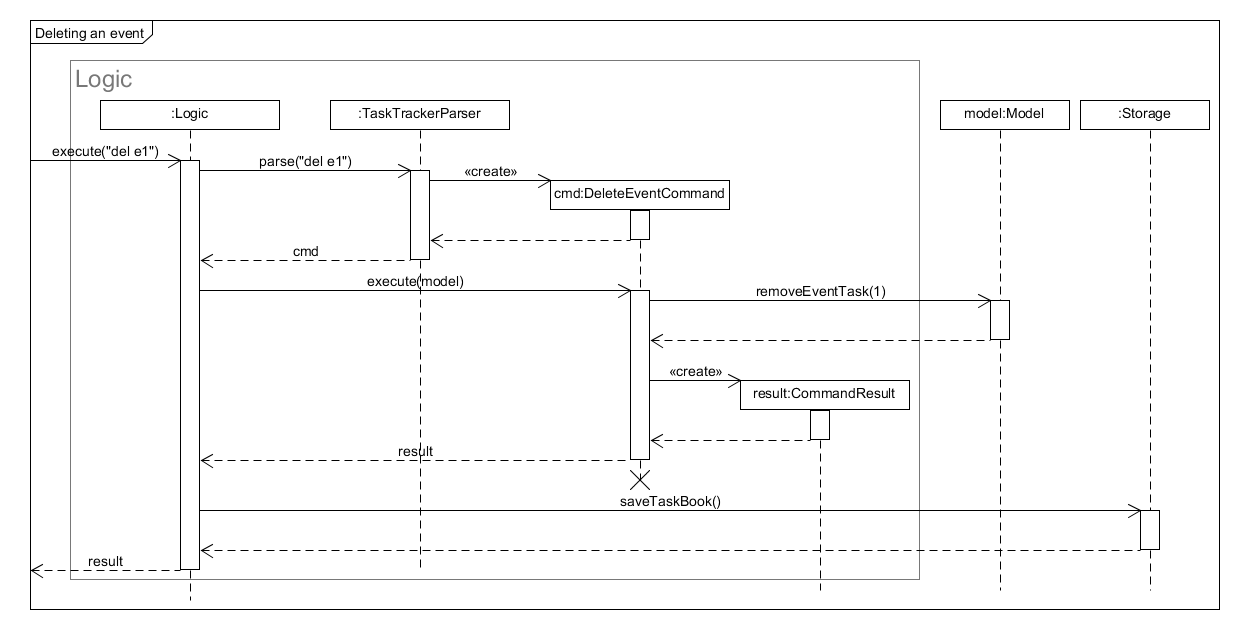
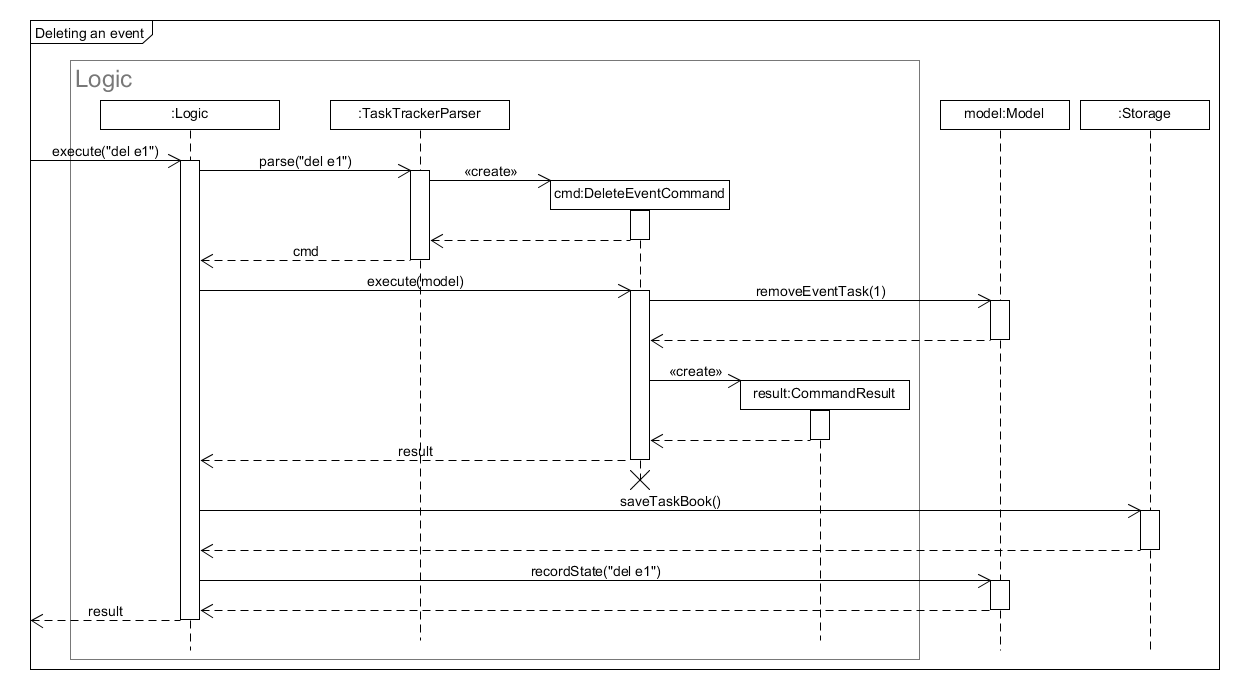
Update Logic

diff --git a/docs/DeveloperGuide.md b/docs/DeveloperGuide.md
@@ -454,6 +454,9 @@ The `Logic` component accomplishes its parsing and execution of user commands in
 5. If the `Model` has been modified as a result of the command, `Logic` will
    then write the updated `Model` back to disk using the `Storage` component.
 
+6. If the `Model` has been modified as a result of the command, `Logic` will
+   call `model.recordState()` to record the state of the model for undo/redo.
+
 Given in Figure 2.5 below is the sequence diagram for interactions within the
 `Logic` component for the `execute("delete 1")` API call.
 
